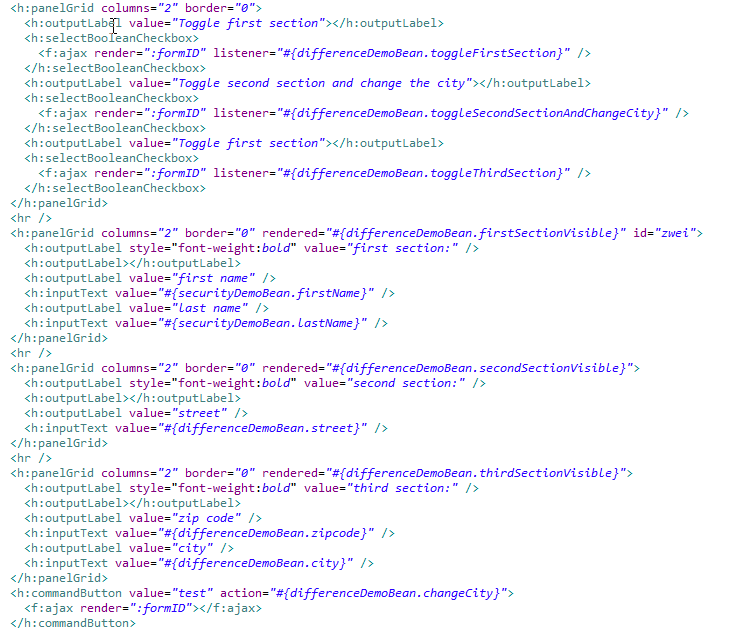
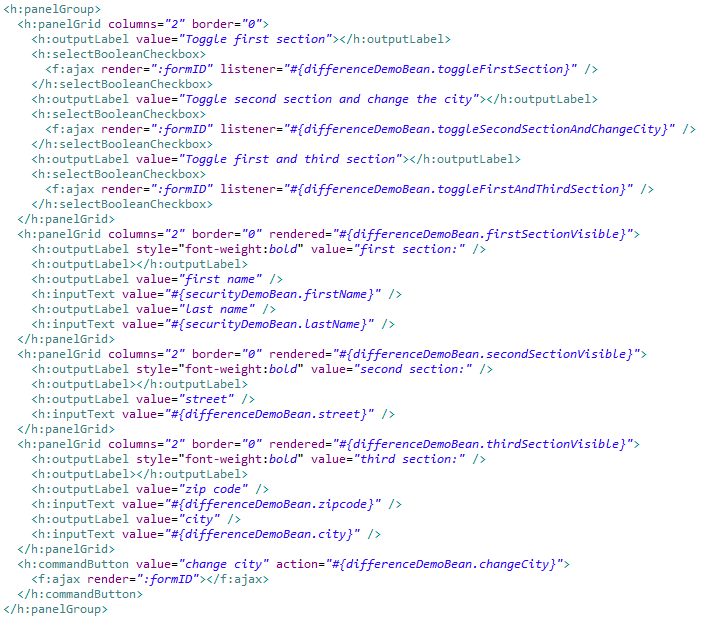
added documentation to the examples

Changed region(s): [[0.0, 0.0, 0.9886, 1.0], [0.8688, 0.2771, 0.8987, 0.3079]]

diff --git a/AngularFaces_1.0/babbageFaces-examples/src/main/java/de/beyondjava/jsf/sample/differenceEngine/DifferenceDemoBean.java b/AngularFaces_1.0/babbageFaces-examples/src/main/java/de/beyondjava/jsf/sample/differenceEngine/DifferenceDemoBean.java
@@ -5,12 +5,12 @@
  * it under the terms of the GNU General Public License as published by
  * the Free Software Foundation, either version 3 of the License, or
  * (at your option) any later version.
- * 
+ *
  * This program is distributed in the hope that it will be useful,
  * but WITHOUT ANY WARRANTY; without even the implied warranty of
  * MERCHANTABILITY or FITNESS FOR A PARTICULAR PURPOSE.  See the
  * GNU General Public License for more details.
- * 
+ *
  * You should have received a copy of the GNU General Public License
  * along with this program.  If not, see <http://www.gnu.org/licenses/>.
  */
@@ -169,10 +169,15 @@ public class DifferenceDemoBean implements Serializable {
         return "ok";
     }
 
-    /** Called by the Mojarra example when the third check box is clicked. */
     public void toggleFirstAndThirdSection(javax.faces.event.AjaxBehaviorEvent event) {
+        firstSectionVisible = !firstSectionVisible;
+        thirdSectionVisible = !thirdSectionVisible;
+    }
+
+    public void toggleFirstAndThirdSectionPrime() {
         thirdSectionVisible = !thirdSectionVisible;
         firstSectionVisible = !firstSectionVisible;
+
     }
 
     /** Called by the Mojarra example when the first check box is clicked. */
@@ -181,7 +186,7 @@ public class DifferenceDemoBean implements Serializable {
     }
 
     public void toggleFirstSectionPrime() {
-        // firstSectionVisible = !firstSectionVisible;
+        firstSectionVisible = !firstSectionVisible;
     }
 
     public void toggleSecondSectionAndChangeCity() {
@@ -195,14 +200,9 @@ public class DifferenceDemoBean implements Serializable {
         changeCity();
     }
 
+    /** Called by the Mojarra example when the third check box is clicked. */
     public void toggleThirdSection(javax.faces.event.AjaxBehaviorEvent event) {
-        firstSectionVisible = !firstSectionVisible;
-    }
-
-    public void toggleThirdSectionPrime() {
-        // thirdSectionVisible = !thirdSectionVisible;
-        firstSectionVisible = !firstSectionVisible;
-
+        thirdSectionVisible = !thirdSectionVisible;
     }
 
     public void valueChangeListener(ValueChangeEvent event) {
